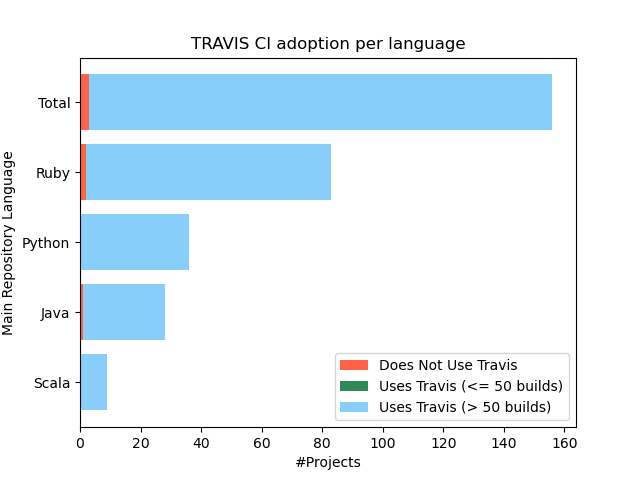
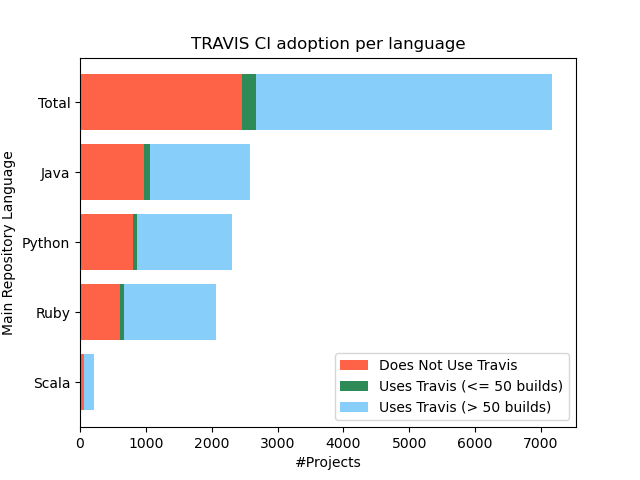
fix bug in plot

diff --git a/plot_travis_ci.py b/plot_travis_ci.py
@@ -31,8 +31,8 @@ sorted_language = np.array(language_list, dtype=object)
 x = sorted_language[:, 0]
 y = np.array([k for k in sorted_language[:, 1]])
 no_travis = y[:, 0]
-lte_travis = y[:, 1]
-gt_travis = y[:, 2]
+lte_travis = y[:, 1] + no_travis
+gt_travis = y[:, 2] + lte_travis
 print(sorted_language)
 
 plt.barh(x, no_travis, label='Does Not Use Travis', color='tomato')
